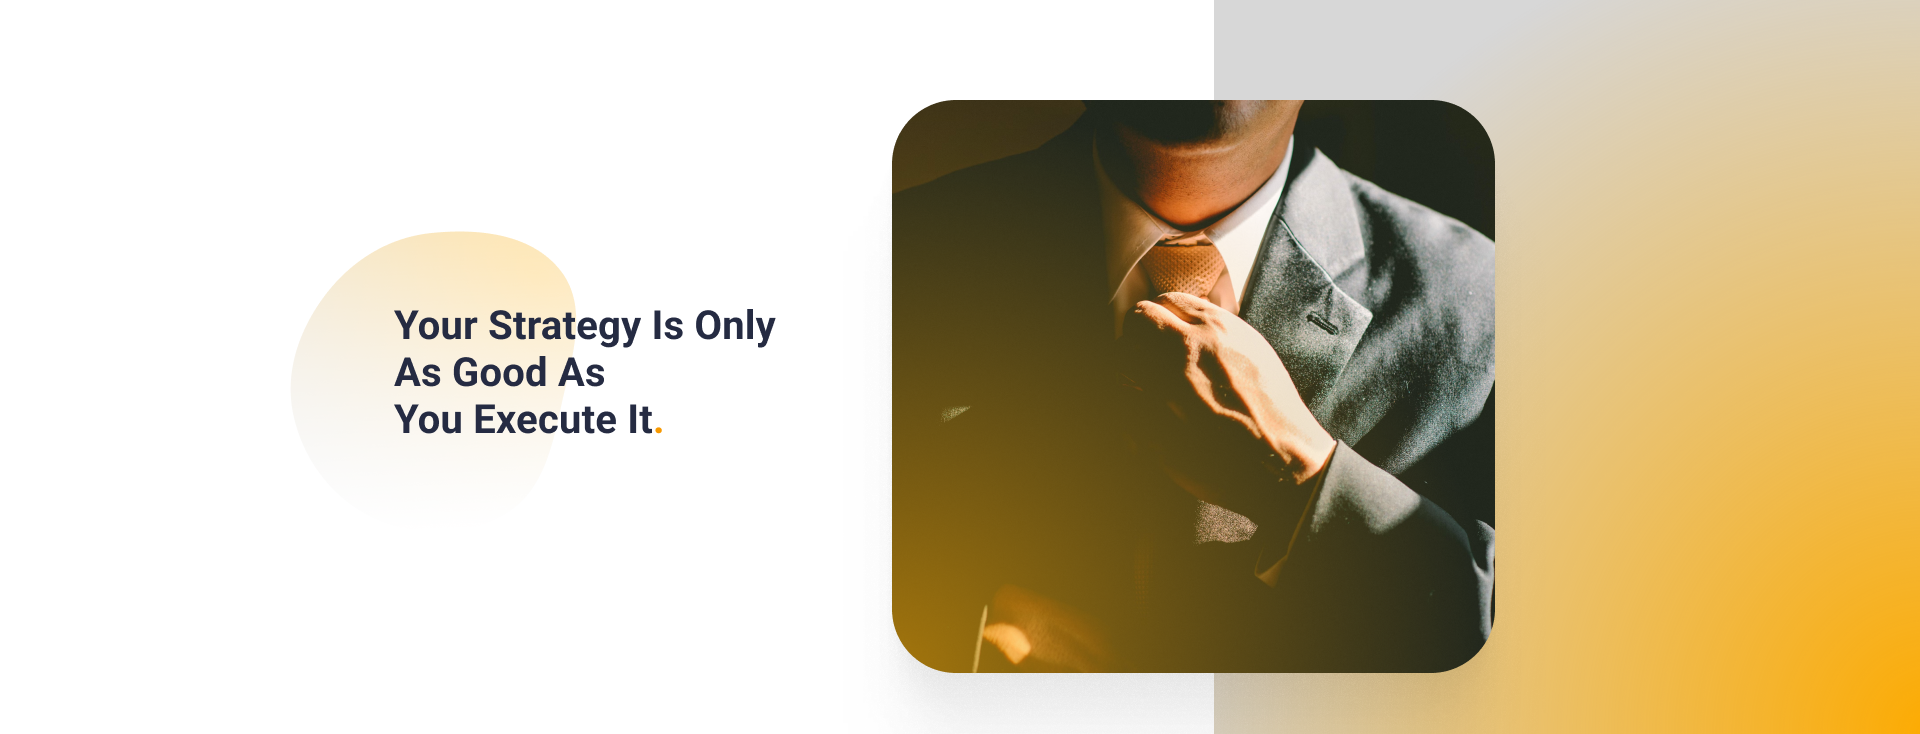
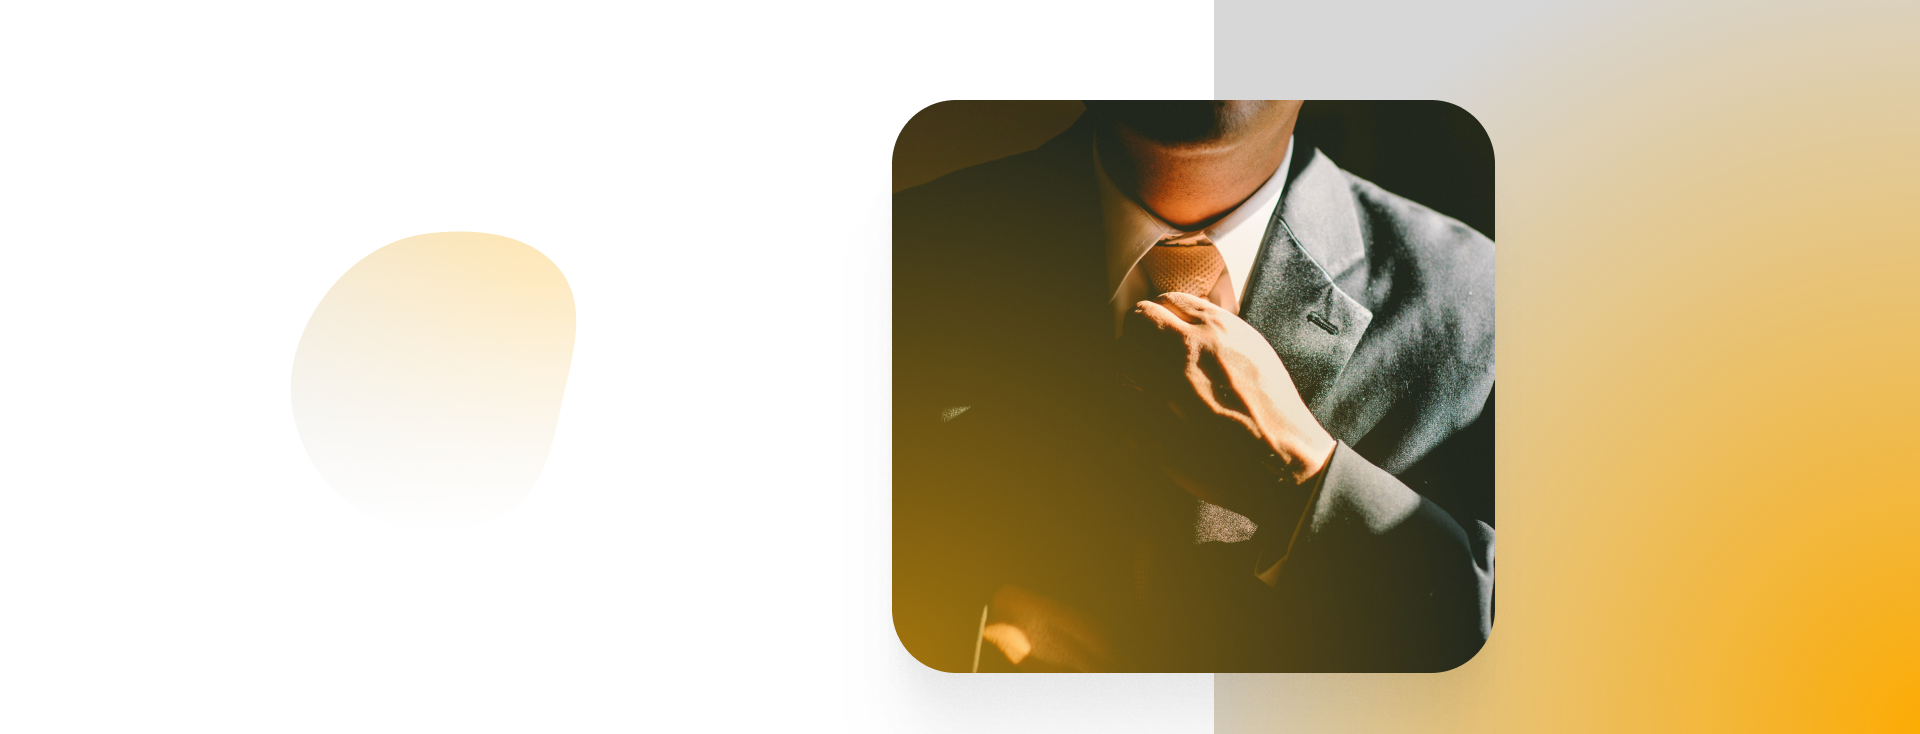
add some animation

Changed region(s): [[0.1875, 0.4196, 0.4062, 0.5995]]

diff --git a/newfrontend/public/selection/selection.html b/newfrontend/public/selection/selection.html
@@ -66,6 +66,12 @@
         
     }
 </style>
+
+<!-- test area -->
+
+<!-- test area -->
+
+
 <!-- auto-slide -->
 <div id="myCarousel" class="carousel slide mb-6" data-bs-ride="carousel">
     <div class="carousel-indicators">
@@ -75,12 +81,13 @@
     </div>
     <div class="carousel-inner">
       <div class="carousel-item active">
-        <img class="bd-placeholder-img" width="100%" height="100%" src="../selection/images/background2.png" aria-hidden="true" preserveAspectRatio="xMidYMid slice" focusable="false"><rect width="100%" height="100%" fill="var(--bs-secondary-color)">
+        <img class="bd-placeholder-img myimage" width="100%" height="100%" src="../selection/images/background2.png" aria-hidden="true" preserveAspectRatio="xMidYMid slice" focusable="false"><rect width="100%" height="100%" fill="var(--bs-secondary-color)">
         <div class="container">
           <div class="carousel-caption text-start">
-            <h1>Example headline.</h1>
-            <h1 class="opacity-75" style="color: #000;">Some representative placeholder content for the first slide of the carousel.</h1></br>
-            <p><a class="btn btn-lg btn-warning" href="#">Sign up today</a></p>
+            <p class="main-text">Your Strategy Is Only As Good As</br>Your Execute It</p>
+            <h1 style="font-weight: lighter; font-size: larger;">Example headline.</h1> 
+            <h1 class="opacity-75" style="color: #000; font-weight: lighter; font-size: larger;">Some representative placeholder content for the first slide of the carousel.</h1></br>
+            <p><a class="btn btn-lg btn-warning mybutton" href="#">Sign up today</a></p>
           </div>
         </div>
       </div>
@@ -88,19 +95,19 @@
         <img class="bd-placeholder-img" width="100%" height="100%" src="../selection/images/background.png" aria-hidden="true" preserveAspectRatio="xMidYMid slice" focusable="false"><rect width="100%" height="100%" fill="var(--bs-secondary-color)">
         <div class="container">
           <div class="carousel-caption" >
-            <h1>Another example headline.</br>
+            <h1 style="font-weight:lighter; font-size: larger;">Another example headline.</br>
             Some representative placeholder content for the second slide of the carousel.</h1></br>
-            <p><a class="btn btn-lg btn-warning" href="#">Learn more</a></p>
+            <p><a class="btn btn-lg btn-warning mybutton" href="#">Learn more</a></p>
           </div>
         </div>
       </div>
       <div class="carousel-item">
-        <img class="bd-placeholder-img" width="100%" height="100%" src="../selection/images/background.png" aria-hidden="true" preserveAspectRatio="xMidYMid slice" focusable="false"><rect width="100%" height="100%" fill="var(--bs-secondary-color)">
+        <img class="bd-placeholder-img" width="100%" height="100%" src="../selection/images/background3.png" aria-hidden="true" preserveAspectRatio="xMidYMid slice" focusable="false"><rect width="100%" height="100%" fill="var(--bs-secondary-color)">
         <div class="container">
           <div class="carousel-caption text-end">
-            <h1>One more for good measure.</br>
+            <h1 style="font-weight: lighter; font-size: larger;">One more for good measure.</br>
             Some representative placeholder content for the third slide of this carousel.</h1></br>
-            <p><a class="btn btn-lg btn-warning" href="#">Browse Services</a></p>
+            <p><a class="btn btn-lg btn-warning mybutton" href="#">Browse Services</a></p>
           </div>
         </div>
       </div>
@@ -124,29 +131,7 @@
             <nav id="store" class="w-full z-30 top-0 px-6 py-1">
                 <div class="w-full container mx-auto flex flex-wrap items-center justify-between mt-0 px-2 py-3">
 
-                    <div class="uppercase tracking-wide no-underline hover:no-underline font-bold text-gray-800 text-xl" style="text-align: center;"
-                        href="#"> 
-                        What Are You Looking For?
-                    </div>
-
-                    <div class="flex items-center" id="store-nav-content">
-
-                        <a class="pl-3 inline-block no-underline hover:text-black" href="#">
-                            <svg class="fill-current hover:text-black" xmlns="http://www.w3.org/2000/svg" width="24"
-                                height="24" viewBox="0 0 24 24">
-                                <path d="M7 11H17V13H7zM4 7H20V9H4zM10 15H14V17H10z" />
-                            </svg>
-                        </a>
-
-                        <a class="pl-3 inline-block no-underline hover:text-black" href="#">
-                            <svg class="fill-current hover:text-black" xmlns="http://www.w3.org/2000/svg" width="24"
-                                height="24" viewBox="0 0 24 24">
-                                <path
-                                    d="M10,18c1.846,0,3.543-0.635,4.897-1.688l4.396,4.396l1.414-1.414l-4.396-4.396C17.365,13.543,18,11.846,18,10 c0-4.411-3.589-8-8-8s-8,3.589-8,8S5.589,18,10,18z M10,4c3.309,0,6,2.691,6,6s-2.691,6-6,6s-6-2.691-6-6S6.691,4,10,4z" />
-                            </svg>
-                        </a>
-
-                    </div>
+                    <p class="text-center subtitle">What Are You Looking For?</br></br></p>
                 </div>
             </nav>
 
@@ -178,7 +163,7 @@
                                 d="M12,4.595c-1.104-1.006-2.512-1.558-3.996-1.558c-1.578,0-3.072,0.623-4.213,1.758c-2.353,2.363-2.352,6.059,0.002,8.412 l7.332,7.332c0.17,0.299,0.498,0.492,0.875,0.492c0.322,0,0.609-0.163,0.792-0.409l7.415-7.415 c2.354-2.354,2.354-6.049-0.002-8.416c-1.137-1.131-2.631-1.754-4.209-1.754C14.513,3.037,13.104,3.589,12,4.595z M18.791,6.205 c1.563,1.571,1.564,4.025,0.002,5.588L12,18.586l-6.793-6.793C3.645,10.23,3.646,7.776,5.205,6.209 c0.76-0.756,1.754-1.172,2.799-1.172s2.035,0.416,2.789,1.17l0.5,0.5c0.391,0.391,1.023,0.391,1.414,0l0.5-0.5 C14.719,4.698,17.281,4.702,18.791,6.205z" />
                         </svg>
                     </div>
-                    <p class="pt-1 text-gray-900">£9.99</p>
+                    <p class="pt-1 text-gray-900">$9.99</p>
                 </a>
             </div>
 
@@ -287,12 +272,14 @@
             <div class="row">
                 <div class="col-lg-12 image-container2">
                      <!-- Image -->
-                     <img src="../selection/images/midle.png" width=100% class="image-container2 img-fluid" alt="Responsive image">
+                     <img src="../selection/images/midle.png" width=100% class="image-container2 img-fluid midle_img" alt="Responsive image">
         
                      <!-- Text Overlay -->
-                     <div class="image-overlay-text fw-medium">
-                        Your Text Here
-                     </div> 
+                     <p class="image-overlay-text fw-medium midle_text">
+                        Your Text Here</br></br>
+                        <button class="btn btn-warning midle_button">Quick Survey</button>
+                     </p> 
+                     
                  </div> 
              </div> 
         </div>

diff --git a/newfrontend/public/styles/style.css b/newfrontend/public/styles/style.css
@@ -1,5 +1,6 @@
 /* Global styles */
 body, html{
+  
   -ms-overflow-style: none;
   height: 100%;
   }
@@ -19,7 +20,9 @@ body, html{
 } .orange-button:hover {
   background-color: #ff9d00cf !important;
 }
-
+section {
+  margin: 0;
+}
 
 /* Service Page styles */
 .serv-cell {
@@ -155,6 +158,7 @@ body, html{
 .image-container2 {
   position: relative;
   width: 100%;
+  
 }
 .carousel-caption h1 {
   font-weight: 300;
@@ -166,4 +170,85 @@ body, html{
 }
 .carousel-caption a {
   color: white;
+}
+.main-text {
+  position: absolute;
+  top: -200%;
+  font-size: 3em;
+  width: 600px;
+  
+  font-family:'Lucida Sans', 'Lucida Sans Regular', 'Lucida Grande', 'Lucida Sans Unicode', Geneva, Verdana, sans-serif;
+  color:black;
+  animation: slide 1s ease-out forwards;
+  
+}
+@media (max-width: 1000px) {
+  .main-text {
+    font-size: 2em;
+    width: 300px;
+  }
+}
+@media (max-width: 700px) {
+  .main-text {
+    font-size: 1.5em;
+    width: 200px;
+  }
+}
+@keyframes slide {
+  from {
+    left:-100%;
+    opacity: 0;
+  }
+  to {
+    left:0%;
+    opacity: 1;
+  }
+}
+@keyframes slide2 {
+  from {
+    left:0%;
+    opacity: 1;
+  }
+  to {
+    left:-100%;
+    opacity: 0;
+  }
+}
+.subtitle {
+  font-size: 3em;
+  color: #000000;
+  margin-left: 30% !important;
+  text-align: center !important;
+  font-family: 'Lucida Sans', 'Lucida Sans Regular', 'Lucida Grande', 'Lucida Sans Unicode', Geneva, Verdana, sans-serif;
+}
+@media (max-width: 1000px) {
+  .subtitle {
+    font-size: 2em;
+    width: 300px;
+  }
+}
+@media (max-width: 700px) {
+  .subtitle {
+    font-size: 1.5em;
+    width: 200px;
+  }
+}
+.midle_text {
+  font-family: 'Lucida Sans', 'Lucida Sans Regular', 'Lucida Grande', 'Lucida Sans Unicode', Geneva, Verdana, sans-serif;
+  font-size: 2em;
+}
+.midle_button {
+  background-color: #F79901 !important;
+  border:none !important;
+  border-radius: 8px;
+  height: 45px;
+  color: white;
+  text-align: center;
+  font-size: 16px;
+  border: none;
+  margin-left: 20% !important;
+}
+.mybutton {
+  background-color: #F79901 !important;
+  
 }

diff --git a/newfrontend/public/template/index.html b/newfrontend/public/template/index.html
@@ -19,6 +19,7 @@
 
 
     <body>
+        
         <header>
             {% include 'template/navbar.html' %}
         </header>
@@ -32,7 +33,7 @@
         <footer>
             {% include 'template/footer.html' %}
         </footer>
-        
+        <script src="../styles/style.js"></script>
         <script src="https://kit.fontawesome.com/1fde6da9d6.js" crossorigin="anonymous"></script>
         <script src="https://cdn.jsdelivr.net/npm/@popperjs/core@2.11.8/dist/umd/popper.min.js"
             integrity="sha384-I7E8VVD/ismYTF4hNIPjVp/Zjvgyol6VFvRkX/vR+Vc4jQkC+hVqc2pM8ODewa9r"

diff --git a/newfrontend/public/styles/style.js b/newfrontend/public/styles/style.js
@@ -1,0 +1,13 @@
+let mainText = document.querySelector('.main-text');
+
+window.addEventListener('scroll', function() {
+    let value = window.scrollY;
+    // console.log("scrollY", value);
+
+    if(value > 200){
+        mainText.style.animation = "slide2 1s ease-out forwards";
+    }
+    else{
+        mainText.style.animation = "slide 1s ease-out forwards";
+    }
+});
